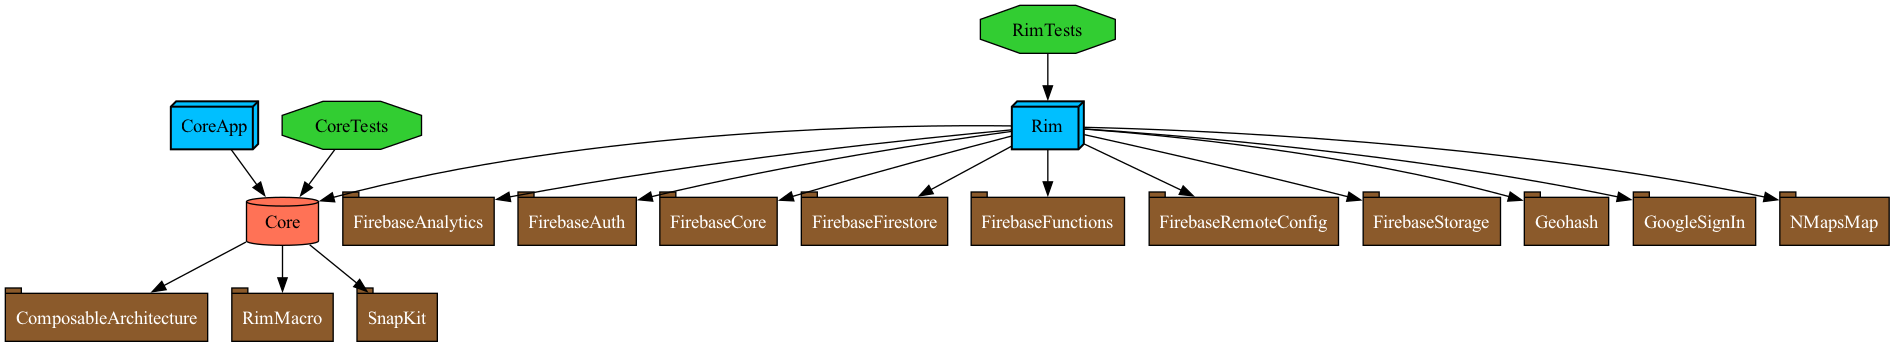
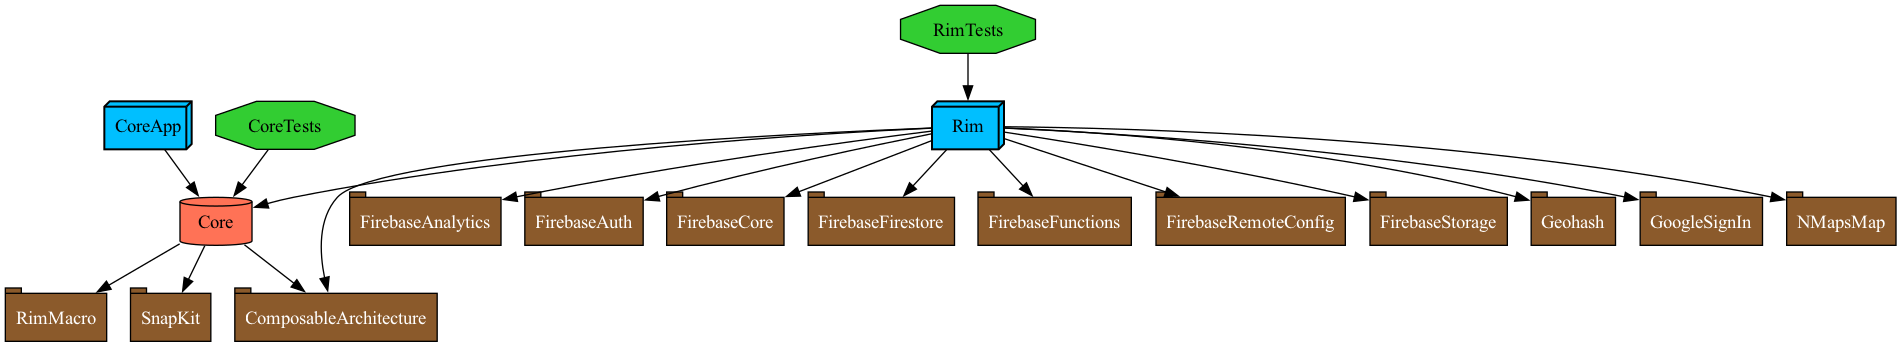
플레이스홀더 이미지 변경

diff --git a/App/Rim/Sources/Features/Map/UIMapViewController.swift b/App/Rim/Sources/Features/Map/UIMapViewController.swift
@@ -12,9 +12,13 @@ import CoreLocation
 import Core
 import ComposableArchitecture
 import SwiftUI
+import Kingfisher
 
 @ViewAction(for: MapFeature.self)
 class UIMapViewController: UIViewController, NMFMapViewCameraDelegate {
+    
+    @Dependency(\.viewImageGenerator) var viewImageGenerator
+    
     @UIBindable var store: StoreOf<MapFeature>
     
     private lazy var mapView: NMFMapView = {
@@ -30,11 +34,26 @@ class UIMapViewController: UIViewController, NMFMapViewCameraDelegate {
     private let progressView = UIActivityIndicatorView(style: .medium)
     
     private let cameraButton = UIButton()
+    
     private let currentLocationButton = UIButton()
+    
     private lazy var cachedLockedIcon: UIImage = {
         let size = CGSize(width: 94, height: 86)
         return resizedImage(UIImage(systemName: "lock.circle")!, size: size)
     }()
+    
+    @MainActor
+    private var placeholderIcon: UIImage {
+        @Dependency(\.viewImageGenerator) var viewImageGenerator
+        
+        let markerView = ImageMarkerView(
+            image: Image(.placeholder),
+            title: "",
+            contentMode: .fit
+        )
+        
+        return viewImageGenerator.generate(markerView) ?? UIImage()
+    }
     
     init(store: StoreOf<MapFeature>) {
         @UIBindable var binding = store
@@ -93,6 +112,10 @@ class UIMapViewController: UIViewController, NMFMapViewCameraDelegate {
         observe { [weak self] in
             guard let self else { return }
             updateMarkers()
+        }
+        
+        observe { [weak self] in
+            guard let self else { return }
             updateProgressView()
         }
     }
@@ -108,19 +131,10 @@ class UIMapViewController: UIViewController, NMFMapViewCameraDelegate {
     
     private func syncMarkers() {
         for post in store.posts {
-            let iconImage: UIImage
             let markerSize = CGSize(width: 94, height: 86)
             
-            if store.blockedUserIds.contains(post.creatorID) {
-                iconImage = resizedImage(UIImage(systemName: "lock.circle")!, size: markerSize)
-            } else {
-                iconImage = post.image ?? UIImage(resource: .placeholder)
-            }
-            
             if let existingMarker = activeMarkers[post.id] {
-                if existingMarker.iconImage.image != iconImage {
-                    existingMarker.iconImage = NMFOverlayImage(image: iconImage)
-                }
+                updateMarkerImage(for: post, on: existingMarker)
             } else {
                 let marker = makeNewMarker(post)
                 marker.mapView = mapView
@@ -136,7 +150,7 @@ class UIMapViewController: UIViewController, NMFMapViewCameraDelegate {
         if store.blockedUserIds.contains(post.creatorID) {
             iconImage = cachedLockedIcon
         } else {
-            iconImage = post.image ?? UIImage(resource: .placeholder)
+            iconImage = placeholderIcon
         }
         
         
@@ -150,7 +164,65 @@ class UIMapViewController: UIViewController, NMFMapViewCameraDelegate {
         marker.anchor = CGPoint(x: 0.5, y: 1)
         marker.iconImage = NMFOverlayImage(image: iconImage)
         
+        updateMarkerImage(for: post, on: marker)
         return marker
+    }
+    
+    private func updateMarkerImage(for post: MapPostState, on marker: NMFMarker) {
+        if store.blockedUserIds.contains(post.creatorID) {
+            marker.iconImage = NMFOverlayImage(image: cachedLockedIcon)
+        } else {
+            Task {
+                let loadedImage = await loadMarkerImage(for: post)
+                await MainActor.run {
+                    marker.iconImage = NMFOverlayImage(image: loadedImage)
+                }
+            }
+        }
+    }
+    
+    func loadMarkerImage(for post: MapPostState) async -> UIImage {
+        
+        let rawUrlString = post.imageURL
+        let markerCacheKey = rawUrlString.isEmpty ? "empty_post_marker" : rawUrlString + "_processed_marker"
+        
+        let cache = KingfisherManager.shared.cache
+        if let result = try? await cache.retrieveImage(forKey: markerCacheKey),
+           let cachedMarker = result.image {
+            return cachedMarker
+        }
+        
+        var sourceImage: UIImage?
+        var contentMode: SwiftUI.ContentMode
+        
+        if let url = URL(string: rawUrlString) {
+            do {
+                let result = try await KingfisherManager.shared.retrieveImage(with: url)
+                sourceImage = result.image
+                contentMode = .fill // 📸 사진은 꽉 채우기
+            } catch {
+                sourceImage = nil // 실패 시 아래에서 플레이스홀더 처리
+                contentMode = .fit
+            }
+        } else {
+            sourceImage = nil
+            contentMode = .fit
+        }
+        
+        let finalImageToRender = sourceImage ?? UIImage(resource: .placeholder)
+        if sourceImage == nil { contentMode = .fit }
+        
+        let generatedMarker = await MainActor.run {
+            let markerView = ImageMarkerView(
+                image: Image(uiImage: finalImageToRender),
+                title: post.title,
+                contentMode: contentMode
+            )
+            return viewImageGenerator.generate(markerView)
+        } ?? UIImage()
+        
+        try? await cache.store(generatedMarker, forKey: markerCacheKey, toDisk: false)
+        return generatedMarker
     }
     
     private func removeMarkers() {
@@ -172,13 +244,10 @@ class UIMapViewController: UIViewController, NMFMapViewCameraDelegate {
             make.edges.equalToSuperview()
         }
         
-        // [수정] 가로 배치 구현
-        
-        // 1. 현재 위치 버튼 (오른쪽 기준점)
         currentLocationButton.snp.makeConstraints { make in
-            make.bottom.equalTo(view.safeAreaLayoutGuide).inset(16) // 바닥에서 16 띄움
-            make.trailing.equalToSuperview().inset(16) // 오른쪽에서 16 띄움
-            make.width.height.equalTo(40) // 정원형 크기 지정
+            make.bottom.equalTo(view.safeAreaLayoutGuide).inset(16)
+            make.trailing.equalToSuperview().inset(16)
+            make.width.height.equalTo(40) 
         }
         
         cameraButton.snp.makeConstraints { make in

diff --git a/App/Rim/Sources/Features/Map/MapFeature.swift b/App/Rim/Sources/Features/Map/MapFeature.swift
@@ -40,9 +40,12 @@ struct MapFeature {
         var visibleBounds: NMGLatLngBounds?
         var zoom = Double(17)
         
-        var postsNeedingImages: [MapPostState] {
-            return self.posts.filter { $0.image == nil }
-        }
+        // 마커가 너무 많은 경우, 지도에 제대로 표시되지 않습니다.
+        // 네이버 지도에서 공식적으로 어느 기점으로 그런 현상이 나타나는지 공개된 것은 없으며
+        // 대략적으로 마커 마커에 사용한 이미지가 40MB를 넘으면 이런 상황이 발생하는 것으로 보입니다.
+        // 하지만 이미지의 크기를 세는 것보단, 전체 개수를 제한하는 식으로 마커의 개수를 제한합니다.
+        // 축소시킨 이미지의 경우 1MB를 넘지 않습니다.
+        private let maxPostCount = 40
         
         // MARK: - Helper Methods
         mutating func updatePosts(from newPosts: [MapPostDTO]) {
@@ -57,34 +60,20 @@ struct MapFeature {
         }
         
         private mutating func cleanPosts() {
+            if posts.count < maxPostCount { return }
             
-            let limitMB: Double = 40
-            
-            var currentTotalSize = self.posts.lazy
-                .compactMap { $0.image?.memorySizeInMB }
-                .reduce(0, +)
-            
-            if currentTotalSize <= limitMB { return }
-            
-            performDistanceCleanup(limitMB: limitMB, currentTotalSize: &currentTotalSize)
-            performPrecisionCleanup(limitMB: limitMB, currentTotalSize: &currentTotalSize)
+            performDistanceCleanup()
+            performPrecisionCleanup()
         }
         
-        private mutating func performPrecisionCleanup(
-            limitMB: Double,
-            currentTotalSize: inout Double,
-        ) {
-            guard currentTotalSize > limitMB else { return }
-            
+        private mutating func performPrecisionCleanup() {
             var idsToRemove: [String] = []
-            
             let currentPrecision = precision
             
             for post in self.posts {
-                if currentTotalSize <= limitMB { break }
+                if posts.count < maxPostCount { break }
                 
                 if post.fetchedPrecision != currentPrecision {
-                    currentTotalSize -= post.image?.memorySizeInMB ?? 0
                     idsToRemove.append(post.id)
                 }
             }
@@ -93,10 +82,7 @@ struct MapFeature {
             }
         }
         
-        private mutating func performDistanceCleanup(
-            limitMB: Double,
-            currentTotalSize: inout Double,
-        ) {
+        private mutating func performDistanceCleanup() {
             guard let bounds = visibleBounds else { return }
             
             var idsToRemove: [String] = []
@@ -106,10 +92,9 @@ struct MapFeature {
             let threshold = visibleRadius * 2.0 // 화면 반경의 2배
             
             for post in self.posts {
-                if currentTotalSize <= limitMB { break }
+                if posts.count <= maxPostCount { break }
                 
                 if center.distance(to: post.nmLocation) > threshold {
-                    currentTotalSize -= post.image?.memorySizeInMB ?? 0
                     idsToRemove.append(post.id)
                 }
             }
@@ -127,15 +112,7 @@ struct MapFeature {
                 if center.distance(to: dtoLocation) > threshold { continue }
                 
                 if var existingPost = self.posts[id: dto.id] {
-                    let oldImage = existingPost.image
-                    let oldImageURL = existingPost.imageURL
-                    
                     existingPost = MapPostState(dto: dto, fetchedPrecision: currentPrecision)
-                    
-                    if oldImageURL == dto.imageUrl {
-                        existingPost.image = oldImage
-                    }
-                    
                     self.posts.updateOrAppend(existingPost)
                     
                 } else {
@@ -167,7 +144,6 @@ struct MapFeature {
         case setPosts(PostResponse.MapPosts)
         case showFetchFailAlert
         case dismissProgress
-        case setImage(postID: String, image: UIImage)
         case showFailedToGetPhotoLocationAlert
         case setLoadingIndicator(Bool)
         
@@ -277,35 +253,6 @@ struct MapFeature {
                 
             case let .setPosts(response):
                 state.updatePosts(from: response.posts)
-                
-                let postsNeedingImage = state.postsNeedingImages
-                
-                return .run { send in
-                    await withTaskGroup(of: Void.self) { group in
-                        for post in postsNeedingImage {
-                            group.addTask {
-                                do {
-                                    let request = ImageClient.Request.Load(originalUrl: post.imageURL, size: .small)
-                                    let image = try await imageClient.loadImage(request: request)
-                                        
-                                    let markerImage: UIImage? = await MainActor.run {
-                                        let markerView = ImageMarkerView(image: Image(uiImage: image), title: post.title)
-                                        return viewImageGenerator.generate(markerView)
-                                    }
-                                    
-                                    guard let finalImage = markerImage else { return }
-                                    await send(.setImage(postID: post.id, image: finalImage))
-                                } catch {
-                                    Logger.error("이미지 로드 실패")
-                                }
-                            }
-                        }
-                    }
-                }
-                .cancellable(id: EffectID.cancelImageLoad, cancelInFlight: true)
-                
-            case let .setImage(postID, image):
-                state.posts[id: postID]?.image = image
                 return .none
                 
             case .showFetchFailAlert:

diff --git a/App/Rim/Sources/Features/Map/ImageMarkerView.swift b/App/Rim/Sources/Features/Map/ImageMarkerView.swift
@@ -11,16 +11,27 @@ import Core
 struct ImageMarkerView: View {
     var image: Image
     var title: String
+    var contentMode: ContentMode
     
     let tailHeight = CGFloat(10)
+    
+    /// 이미지 마커 뷰를 생성합니다.
+    /// - Parameters:
+    ///   - contentMode: 이미지의 비율을 결정합니다.
+    ///     * `.fill`: 일반 사진용 (꽉 채우기)
+    ///     * `.fit`: 플레이스홀더/아이콘용 (전체 보이기)
+    init(image: Image, title: String, contentMode: ContentMode = .fill) {
+        self.image = image
+        self.title = title
+        self.contentMode = contentMode
+    }
     
     var body: some View {
         VStack(spacing: 0) {
             ZStack(alignment: .bottom) {
-                // 배경 이미지
                 image
                     .resizable()
-                    .scaledToFill()
+                    .aspectRatio(contentMode: contentMode)
                     .frame(width: 90, height: 70)
                     .clipShape(RoundedRectangle(cornerRadius: 12))
                 
@@ -30,7 +41,6 @@ struct ImageMarkerView: View {
                     .lineLimit(1)
                     .padding(.bottom, 2.5)
                     .padding(.horizontal, 4)
-                    // 테두리 효과
                     .shadow(color: .black.opacity(0.8), radius: 1, x: 1, y: 1)
                     .shadow(color: .black.opacity(0.8), radius: 1, x: -1, y: -1)
             }
@@ -48,7 +58,11 @@ struct ImageMarkerView: View {
     }
 }
 
-#Preview {
-    ImageMarkerView(image: Image(.mustafa), title: "무스타파")
+#Preview("무스파타") {
+    ImageMarkerView(image: Image(.mustafa), title: "무스타파", contentMode: .fill)
+}
+
+#Preview("placeholder") {
+    ImageMarkerView(image: Image(.placeholder), title: "", contentMode: .fit)
 }
 

diff --git a/Core/Project.swift b/Core/Project.swift
@@ -20,7 +20,8 @@ let target = Target.target(
     dependencies: [
         .package(product: "SnapKit"),
         .package(product: "ComposableArchitecture"),
-        .package(product: "RimMacro")
+        .package(product: "RimMacro"),
+        .package(product: "Kingfisher")
     ]
 )
 
@@ -43,6 +44,7 @@ let project = Project(
     packages: [
         .remote(url: "https://github.com/SnapKit/SnapKit.git", requirement: .exact("5.7.1")),
         .remote(url: "https://github.com/pointfreeco/swift-composable-architecture.git", requirement: .exact("1.23.1")),
+        .remote(url: "https://github.com/onevcat/Kingfisher.git", requirement: .exact("8.6.2")),
         .local(path: "../RimMacro")
     ],
     targets: [target, testTarget]

diff --git a/App/Rim/Sources/Features/Post/MapPostState.swift b/App/Rim/Sources/Features/Post/MapPostState.swift
@@ -17,7 +17,7 @@ struct MapPostState: Equatable, Identifiable, Hashable {
     let title: String
     let location: CLLocation
     let creatorID: String
-    var image: UIImage?
+    var isPlaceholder: Bool = true
     let zIndex: Int
     let fetchedPrecision: Geohash.Precision
     
